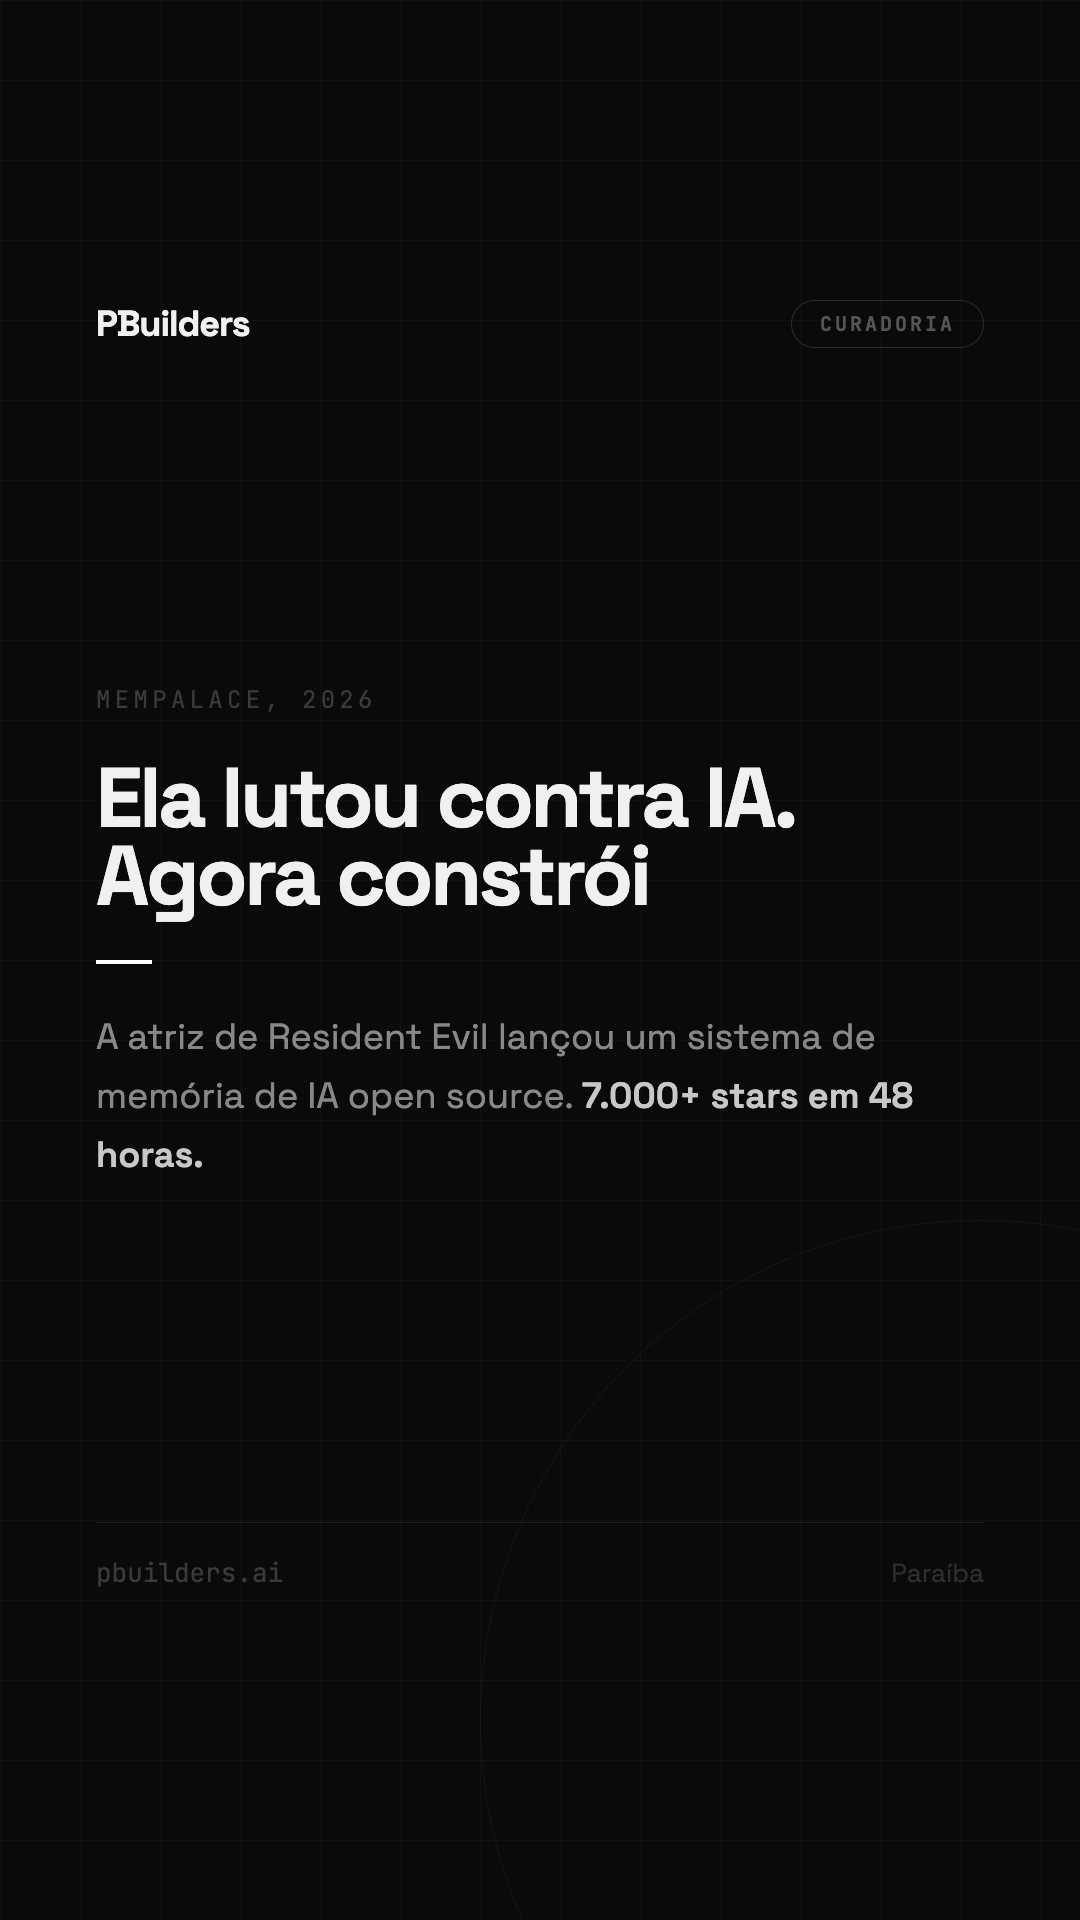
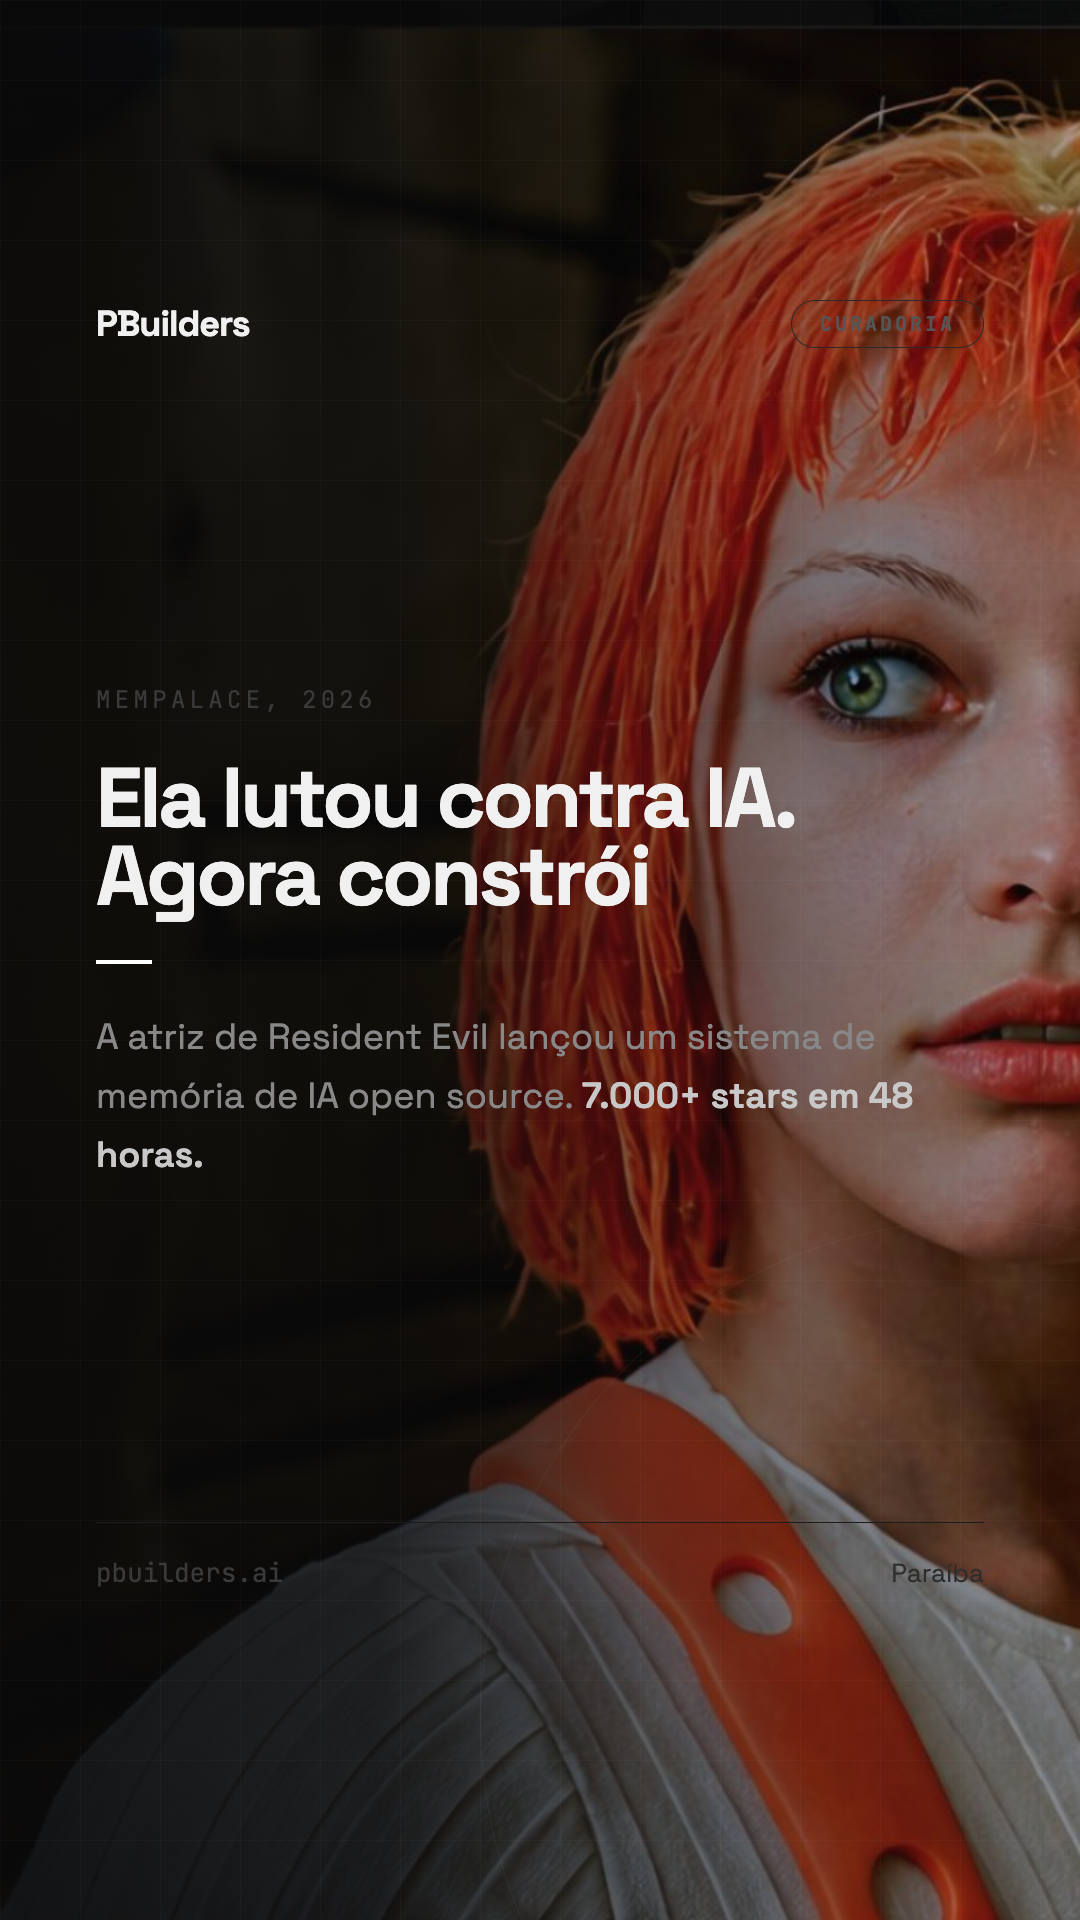
MemPalace: foto da Milla no stories e gradiente uniforme no WhatsApp cover

diff --git a/content/2026-04-08-mempalace/instagram-stories.html b/content/2026-04-08-mempalace/instagram-stories.html
@@ -156,6 +156,17 @@
       color: #2E2E2E;
     }
 
+    /* ── SLIDE 1 — HOOK (foto background) ── */
+    #s1 {
+      background:
+        linear-gradient(to right,
+          rgba(10,10,10,0.92) 0%,
+          rgba(10,10,10,0.85) 35%,
+          rgba(10,10,10,0.50) 60%,
+          rgba(10,10,10,0.20) 100%),
+        url('milla.png') 5% center/cover no-repeat;
+    }
+
     /* ── SLIDE 3 — O RESULTADO ── */
     #s3 .big-number {
       font-size: 160px;

diff --git a/content/2026-04-08-mempalace/whatsapp-cover.html b/content/2026-04-08-mempalace/whatsapp-cover.html
@@ -24,9 +24,9 @@
       background:
         linear-gradient(to right,
           rgba(10,10,10,0.92) 0%,
-          rgba(10,10,10,0.80) 30%,
-          rgba(10,10,10,0.45) 60%,
-          rgba(10,10,10,0.18) 100%),
+          rgba(10,10,10,0.85) 35%,
+          rgba(10,10,10,0.50) 60%,
+          rgba(10,10,10,0.20) 100%),
         url('milla.png') 5% center/cover no-repeat;
       position: relative;
       overflow: hidden;
